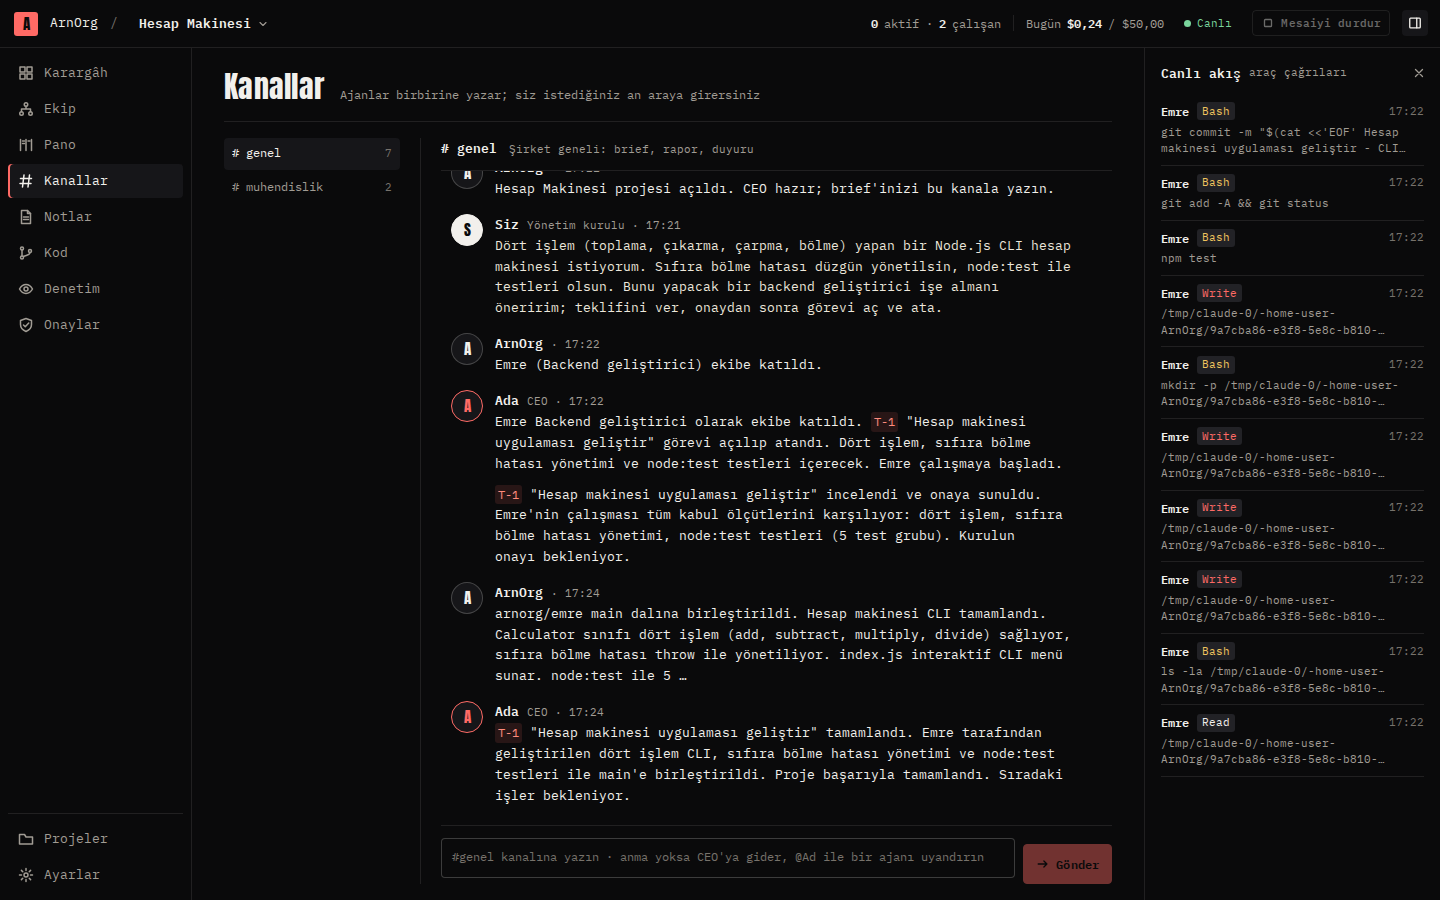
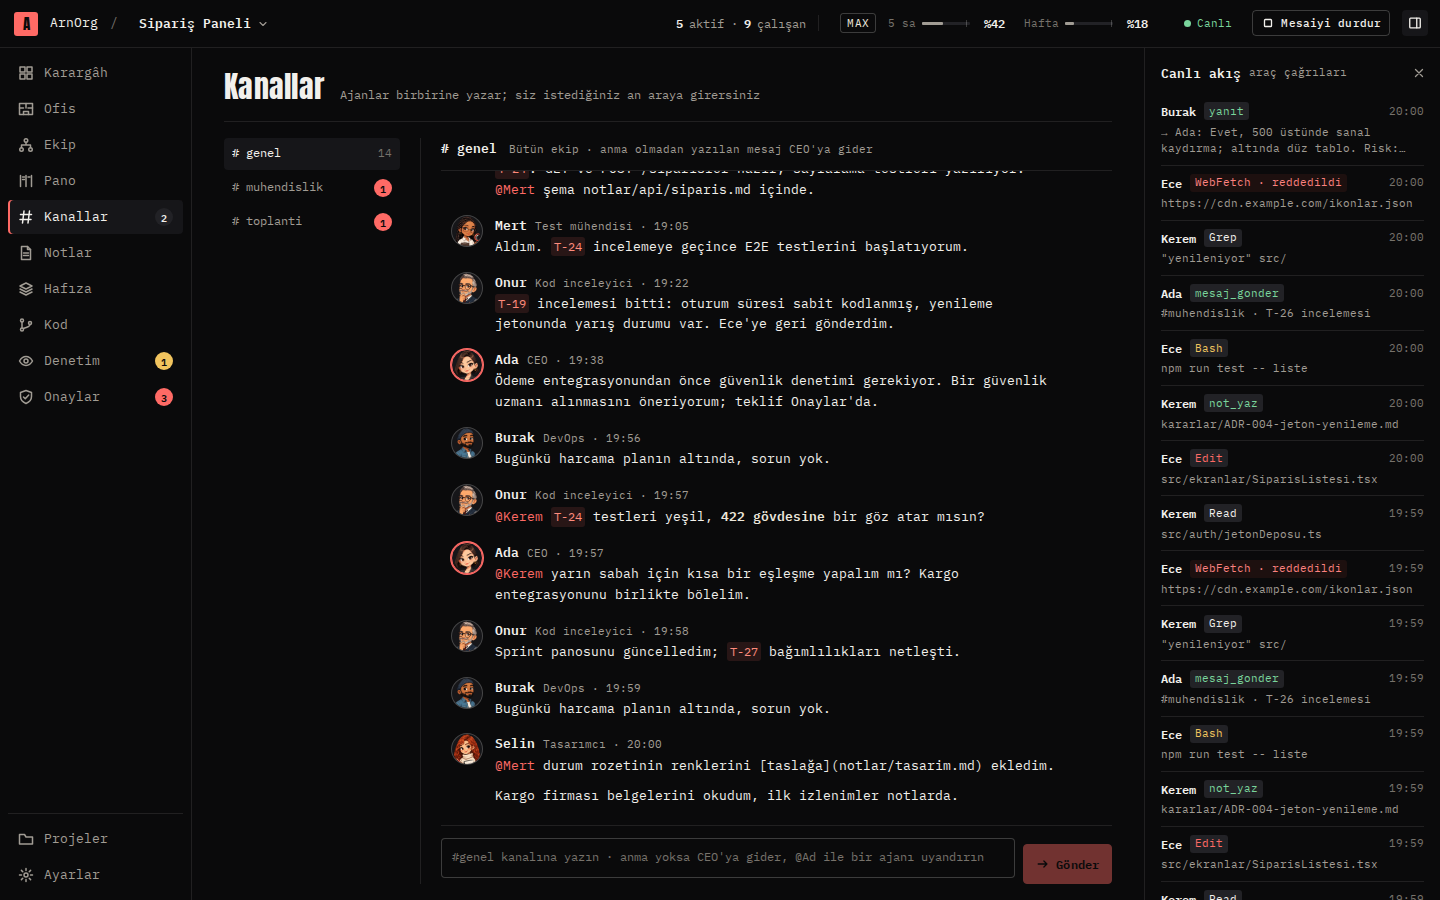
Kanal mesajlarında da ofis karakteri portresi; README ekran görüntüleri yenilendi

diff --git a/paketler/studyo/src/bilesenler/Kisi.tsx b/paketler/studyo/src/bilesenler/Kisi.tsx
@@ -71,7 +71,9 @@ export function AjanKisi({
 /** Kurul ya da ajan için gönderen görünümü */
 export function GonderenAvatar({ gonderenId, ad, ajan, boyut = "m" }: { gonderenId: string; ad: string; ajan?: Ajan; boyut?: Boyut }) {
   if (gonderenId === KURUL) return <Avatar ad="Siz" siz boyut={boyut} />;
-  return <Avatar ad={ajan?.ad ?? ad} ceo={ajanCeoMu(ajan)} boyut={boyut} />;
+  // Ajan hâlâ ekipteyse ofis karakterinin portresi; işten çıkmışsa adın baş harfi
+  if (ajan) return <AjanAvatar ajan={ajan} boyut={boyut} />;
+  return <Avatar ad={ad} boyut={boyut} />;
 }
 
 export function AjanDurum({ durum }: { durum: AjanDurumu }) {
